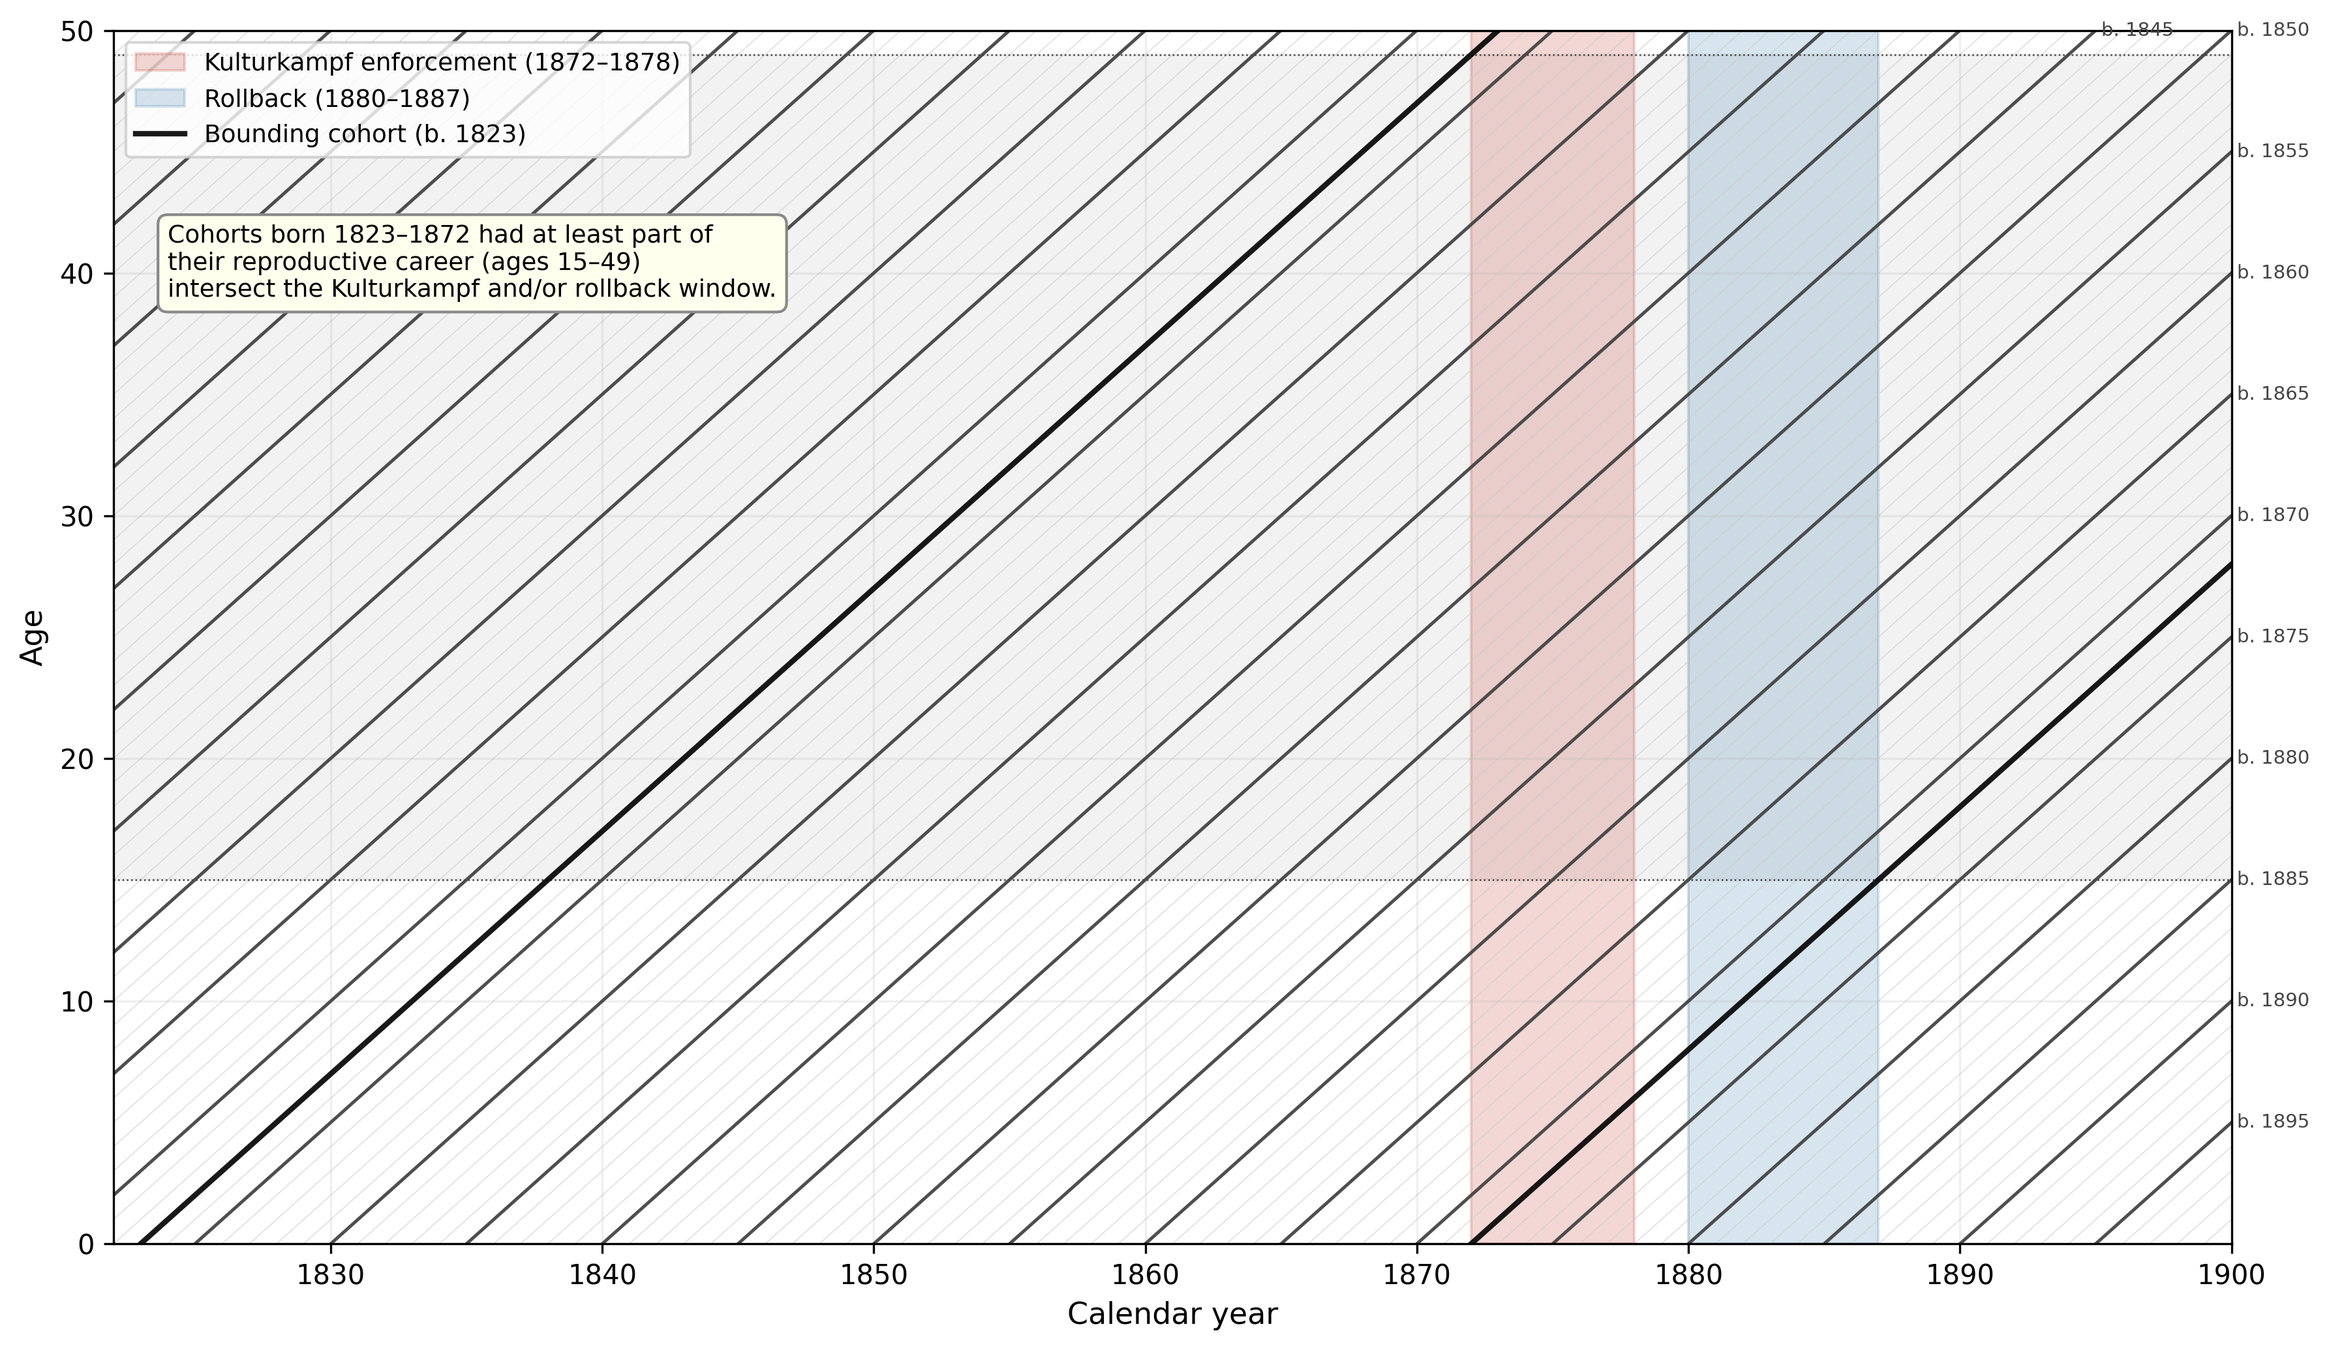
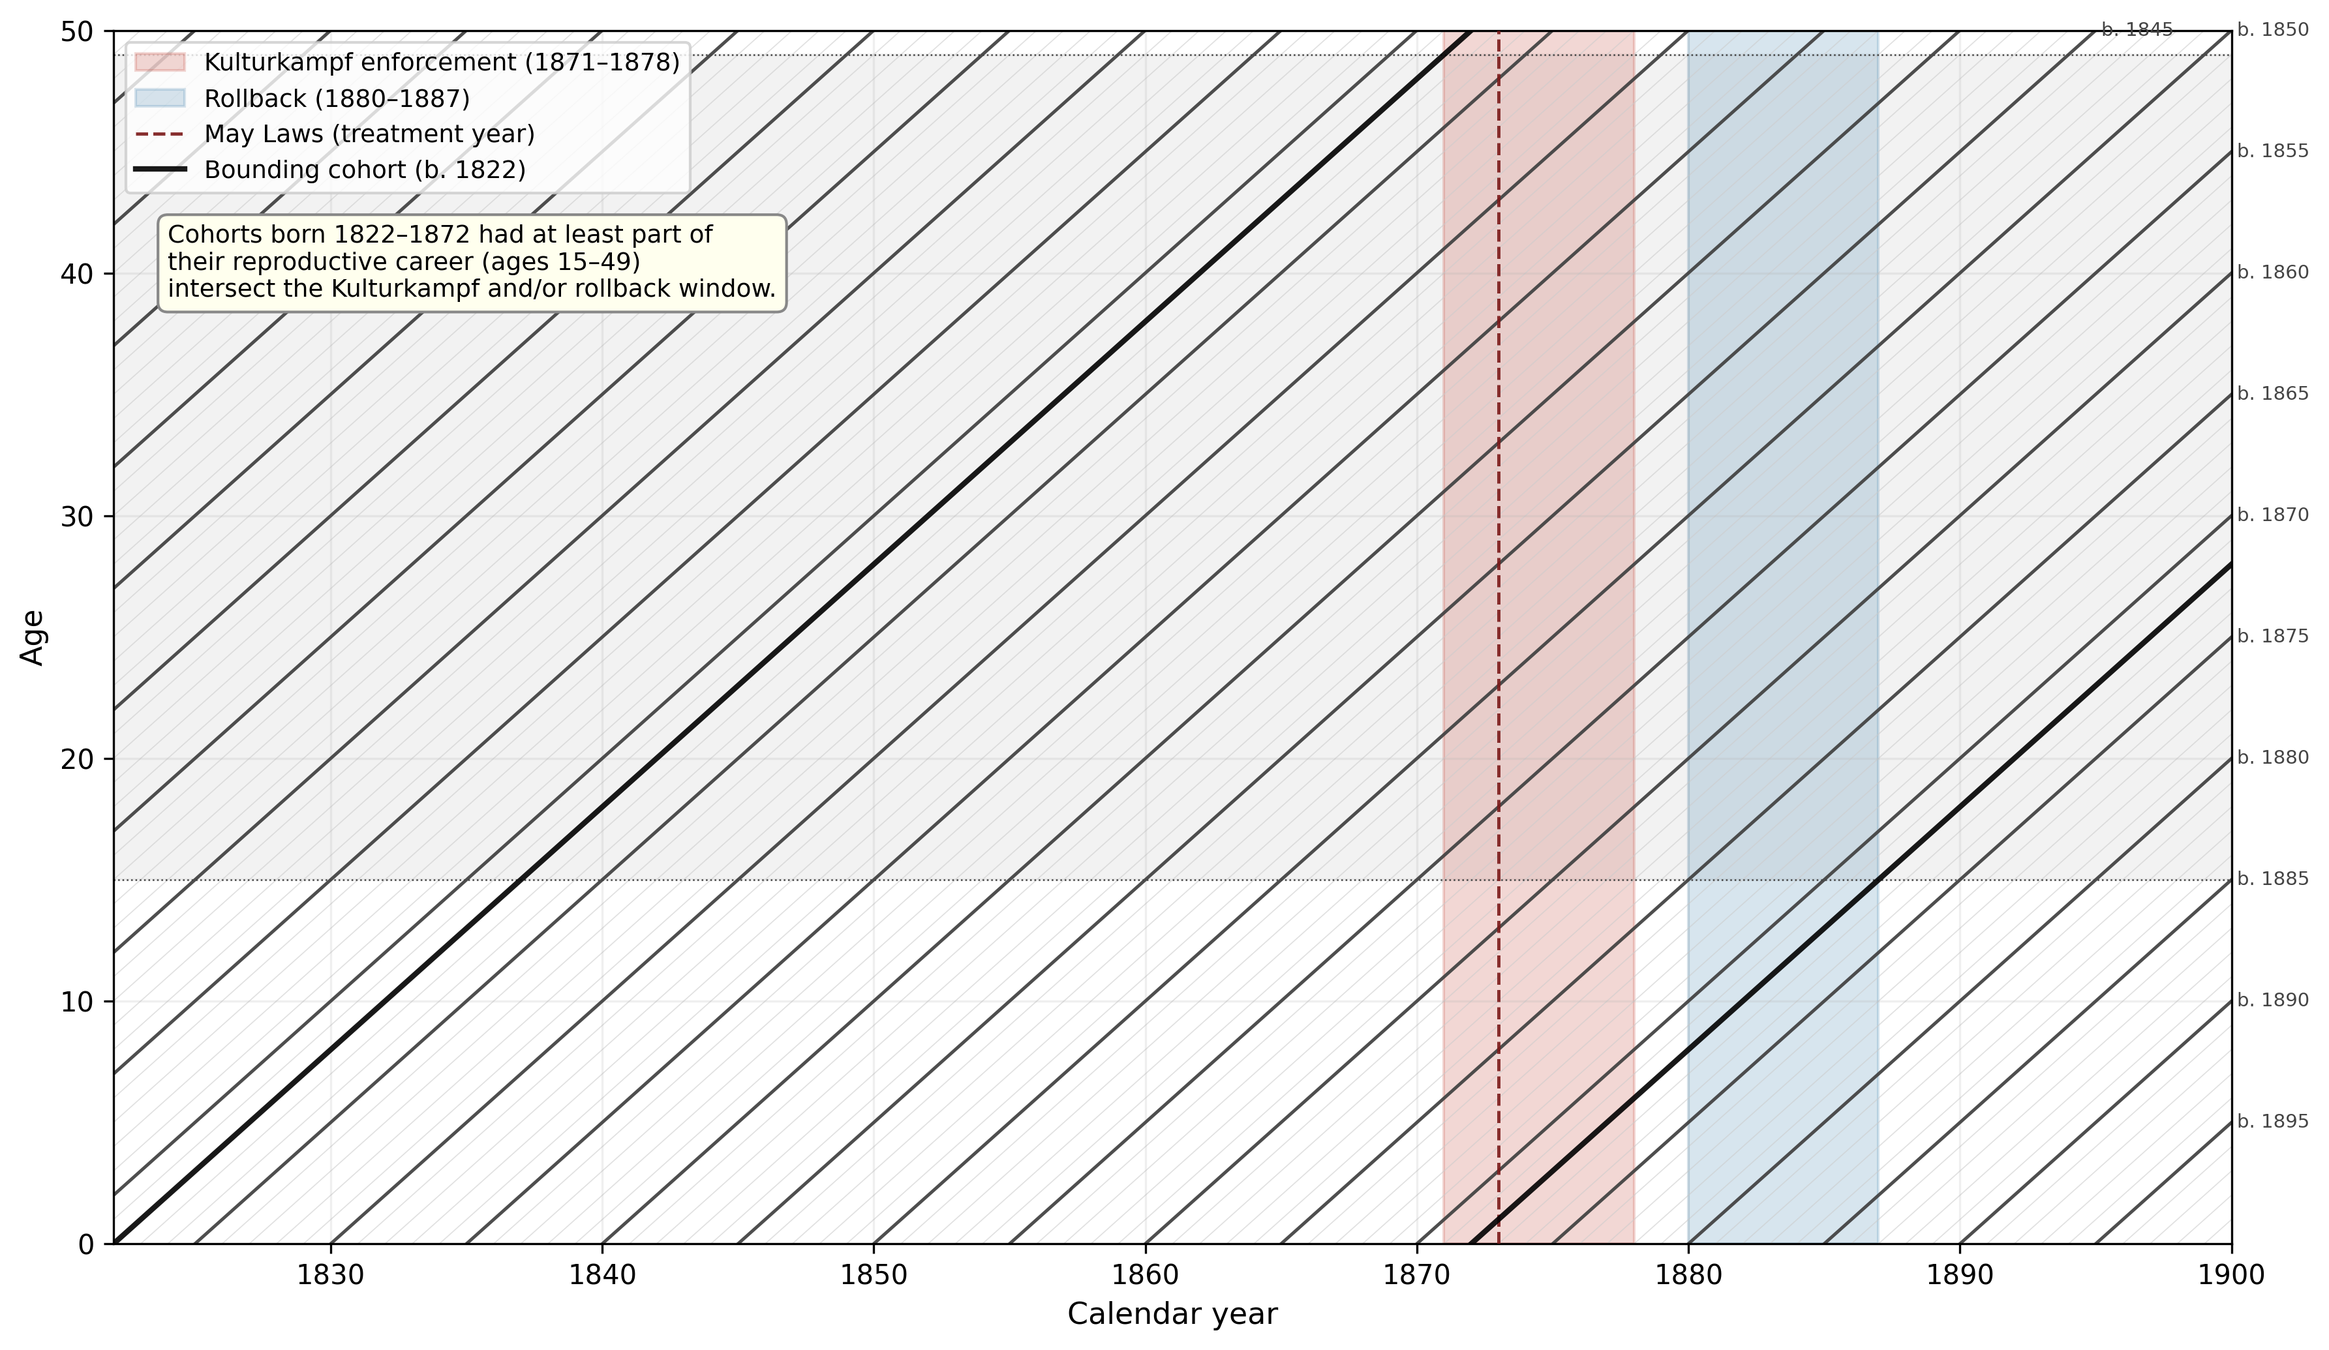
feat: unify Kulturkampf shading to 1871-78 with 1873 treatment-year line
Adopt a single visual convention across every figure with a Kulturkampf
band: the shaded period spans 1871-78 (the legal episode, from the
Pulpit Law to peak enforcement) and a dashed vertical line at 1873
marks the May Laws -- the DiD treatment year. This separates the
historical episode from the empirical cutoff so the two read together
rather than appearing inconsistent across panels.

- plots.py: add KULTURKAMPF_TREATMENT_YEAR constant and
  _add_treatment_year_line() helper; update defaults for 7 plot
  functions from (1872/1873, 1878) to (1871, 1878); add the
  treatment-year line everywhere a Kulturkampf band is shaded.
- channels.py, rollback.py, war_robustness.py: update hard-coded
  bands and labels to the same convention.
- Regenerate descriptive figures: fig_lexis (bounding cohort now
  b. 1822), fig_zentrum_timeseries (new historical-background plot),
  fig_zentrum_mobilization, fig2_fertility_trends,
  fig_population_migration, fig_imr_by_group.

Event-study figures (fig5_event_study_cbr_ig, fig9_rollback_event_study,
etc.) need a pipeline rerun (dvc repro tables) to pick up the new
convention.

diff --git a/exam_project2/src/visualization/plots.py b/exam_project2/src/visualization/plots.py
@@ -22,10 +22,31 @@ COLORS = {
     "kulturkampf": "#E8DAEF",
 }
 
+# Kulturkampf timing convention used across all figures:
+#   - The Kulturkampf legal episode runs 1871 (Pulpit Law / Kanzelparagraph)
+#     to 1878 (peak enforcement); cleavage rollback then begins in 1880.
+#   - The DiD treatment date is the May Laws of 1873, the largest discrete
+#     escalation. We mark this as a dashed vertical line on every figure
+#     that shades the enforcement band so the reader can distinguish the
+#     historical episode (the shaded band) from the empirical treatment
+#     date (the dashed line) at a glance.
+KULTURKAMPF_TREATMENT_YEAR = 1873
+
+
+def _add_treatment_year_line(ax, year: int = KULTURKAMPF_TREATMENT_YEAR,
+                             label: str | None = "May Laws (treatment year)",
+                             color: str = "#7B1A1A", linestyle: str = "--",
+                             linewidth: float = 1.2, alpha: float = 0.9):
+    """Add a vertical dashed line at the DiD treatment year. Pass
+    ``label=None`` to omit from the legend (e.g., when only one panel
+    in a multi-panel figure should carry the legend entry)."""
+    ax.axvline(year, color=color, linestyle=linestyle, linewidth=linewidth,
+               alpha=alpha, label=label, zorder=3)
+
 
 def plot_population_and_migration(
     panel: pd.DataFrame,
-    enforcement_years: tuple[int, int] = (1872, 1878),
+    enforcement_years: tuple[int, int] = (1871, 1878),
     rollback_years: tuple[int, int] = (1880, 1887),
     savepath: str | None = None,
 ):
@@ -77,6 +98,7 @@ def plot_population_and_migration(
                   linewidth=2, marker="o", markersize=3, label=region)
     ax_l.axvspan(*enforcement_years, alpha=0.15, color=COLORS["kulturkampf"])
     ax_l.axvspan(*rollback_years, alpha=0.12, color=COLORS["protestant"])
+    _add_treatment_year_line(ax_l, label=None)
     ax_l.axhline(100, color="black", linewidth=0.6, linestyle=":")
     ax_l.set_xlabel("Year", fontsize=11)
     ax_l.set_ylabel("Population index (1862 = 100)", fontsize=11)
@@ -99,6 +121,7 @@ def plot_population_and_migration(
                  label=f"Kulturkampf ({enforcement_years[0]}--{enforcement_years[1]})")
     ax_r.axvspan(*rollback_years, alpha=0.12, color=COLORS["protestant"],
                  label=f"Rollback ({rollback_years[0]}--{rollback_years[1]})")
+    _add_treatment_year_line(ax_r)
     ax_r.axhline(0, color="black", linewidth=0.6, linestyle="-")
     ax_r.set_xlabel("Year", fontsize=11)
     ax_r.set_ylabel("Implied net migration rate (per 1{,}000 pop)", fontsize=11)
@@ -116,7 +139,7 @@ def plot_lexis_diagram(
     year_range: tuple[int, int] = (1822, 1900),
     age_range: tuple[int, int] = (0, 50),
     repro_age_range: tuple[int, int] = (15, 49),
-    enforcement_years: tuple[int, int] = (1872, 1878),
+    enforcement_years: tuple[int, int] = (1871, 1878),
     rollback_years: tuple[int, int] = (1880, 1887),
     cohort_step: int = 5,
     savepath: str | None = None,
@@ -146,6 +169,7 @@ def plot_lexis_diagram(
                label=f"Kulturkampf enforcement ({enforcement_years[0]}–{enforcement_years[1]})")
     ax.axvspan(*rollback_years, alpha=0.18, color=COLORS["protestant"],
                label=f"Rollback ({rollback_years[0]}–{rollback_years[1]})")
+    _add_treatment_year_line(ax)
 
     # Cohort diagonal lines: a person born in year c is at age (year - c).
     cohort_first = year_range[0] - age_range[1]
@@ -273,9 +297,9 @@ def plot_counterfactual_paths(
                 linestyle="--", alpha=0.85,
                 label=f"{st['label_obs']}, counterfactual")
 
-    ax.axvspan(1872, 1878, alpha=0.15, color=COLORS["kulturkampf"],
-               label="Kulturkampf (1872--1878)")
-    ax.axvline(1873, color="grey", linestyle=":", linewidth=0.8, alpha=0.6)
+    ax.axvspan(1871, 1878, alpha=0.15, color=COLORS["kulturkampf"],
+               label="Kulturkampf (1871--1878)")
+    _add_treatment_year_line(ax)
 
     ax.set_xlabel("Year", fontsize=11)
     ax.set_ylabel(ylabel, fontsize=11)
@@ -297,7 +321,7 @@ def plot_fertility_trends(
 ):
     """
     Plot average fertility over time for high- vs low-Catholic counties.
-    Shades the Kulturkampf period (1872-1878).
+    Shades the Kulturkampf period (1871-1878) with the 1873 May Laws marked.
     """
     fig, ax = plt.subplots(figsize=(10, 6))
     
@@ -309,13 +333,11 @@ def plot_fertility_trends(
         ax.plot(group.index, group.values, color=color, linewidth=2, label=label)
     
     # Shade Kulturkampf period
-    ax.axvspan(1872, 1878, alpha=0.15, color=COLORS["kulturkampf"], 
-               label="Kulturkampf (1872–1878)")
-    
-    # Reference line for May Laws
-    ax.axvline(1873, color="grey", linestyle="--", linewidth=0.8, alpha=0.6)
-    ax.text(1873.2, ax.get_ylim()[1] * 0.98, "May Laws\n1873", 
-            fontsize=8, color="grey", va="top")
+    ax.axvspan(1871, 1878, alpha=0.15, color=COLORS["kulturkampf"],
+               label="Kulturkampf (1871–1878)")
+
+    # Treatment-year line for May Laws
+    _add_treatment_year_line(ax)
     
     ax.set_xlabel("Year", fontsize=11)
     ax.set_ylabel(ylabel, fontsize=11)
@@ -333,7 +355,7 @@ def plot_event_study(
     ref_year: int = 1872,
     title: str = "Event study: Catholic share × Year",
     ylabel: str = "Coefficient on CathShare × Year",
-    enforcement_years: tuple[int, int] = (1873, 1878),
+    enforcement_years: tuple[int, int] = (1871, 1878),
     rollback_years: tuple[int, int] = (1880, 1887),
     savepath: str = None,
 ):
@@ -369,6 +391,7 @@ def plot_event_study(
         alpha=0.18, color="#7F8C8D",
         label=f"Rollback ({rollback_years[0]}-{rollback_years[1]})",
     )
+    _add_treatment_year_line(ax)
 
     # Zero line
     ax.axhline(0, color="black", linewidth=0.8, linestyle="-")
@@ -409,7 +432,7 @@ def plot_event_study_cbr_ig(
     pretrends_cbr: dict | None = None,
     pretrends_ig: dict | None = None,
     ref_year: int = 1872,
-    enforcement_years: tuple[int, int] = (1873, 1878),
+    enforcement_years: tuple[int, int] = (1871, 1878),
     rollback_years: tuple[int, int] = (1880, 1887),
     savepath: str | None = None,
 ):
@@ -467,8 +490,8 @@ def plot_event_study_cbr_ig(
     enf_color = "#9B59B6"   # light purple for enforcement
     roll_color = "#7F8C8D"  # neutral grey for rollback
 
-    for ax, coefs, pre, title, ylabel in panels:
-        # Enforcement shading (light purple, 1873-1878). Use axvspan from
+    for ax_idx, (ax, coefs, pre, title, ylabel) in enumerate(panels):
+        # Enforcement shading (light purple). Use axvspan from
         # enf_start - 0.5 to enf_end + 0.5 to align block edges with
         # year-tick centres.
         ax.axvspan(
@@ -482,6 +505,10 @@ def plot_event_study_cbr_ig(
             alpha=0.18, color=roll_color,
             label=f"Rollback ({rollback_years[0]}-{rollback_years[1]})",
         )
+        # Treatment-year line; label only on the left panel to avoid
+        # duplicating the legend entry.
+        _add_treatment_year_line(ax, label=("May Laws (treatment year)"
+                                            if ax_idx == 0 else None))
 
         ax.axhline(0, color="black", linewidth=0.8, linestyle="-")
         ax.fill_between(
@@ -620,7 +647,7 @@ def plot_cbr_war_context(
 
 def plot_zentrum_event_study(
     coefs: pd.DataFrame,
-    enforcement_years: tuple[int, int] = (1873, 1878),
+    enforcement_years: tuple[int, int] = (1871, 1878),
     rollback_years: tuple[int, int] = (1880, 1887),
     title: str | None = None,
     ylabel: str | None = None,
@@ -665,6 +692,7 @@ def plot_zentrum_event_study(
         alpha=0.18, color="#7F8C8D",
         label=f"Rollback ({rollback_years[0]}-{rollback_years[1]})",
     )
+    _add_treatment_year_line(ax)
 
     # Zero line.
     ax.axhline(0, color="black", linewidth=0.8, linestyle="-")
@@ -731,7 +759,7 @@ def plot_zentrum_event_study(
 def plot_zentrum_mobilization(
     panel: pd.DataFrame,
     election_years: tuple[int, ...] = (1871, 1874, 1878, 1881, 1884, 1887, 1890),
-    enforcement_years: tuple[int, int] = (1873, 1878),
+    enforcement_years: tuple[int, int] = (1871, 1878),
     rollback_years: tuple[int, int] = (1880, 1887),
     savepath: str | None = None,
 ):
@@ -778,6 +806,7 @@ def plot_zentrum_mobilization(
         alpha=0.18, color="#7F8C8D",
         label=f"Rollback ({rollback_years[0]}-{rollback_years[1]})",
     )
+    _add_treatment_year_line(ax)
 
     # Reference line at the 1871 pre-Kulturkampf level for each group.
     for grp, color in [("High Catholic", COLORS["catholic"]),
@@ -897,7 +926,7 @@ def plot_imr_break(
 def plot_imr_by_group(
     panel: pd.DataFrame,
     break_year: int = 1875,
-    enforcement_years: tuple[int, int] = (1872, 1878),
+    enforcement_years: tuple[int, int] = (1871, 1878),
     rollback_years: tuple[int, int] = (1880, 1887),
     savepath: str | None = None,
 ):

diff --git a/exam_project2/src/analysis/channels.py b/exam_project2/src/analysis/channels.py
@@ -60,8 +60,10 @@ def illegitimacy_analysis(df: pd.DataFrame):
         trend = df[mask].groupby("Year")["illegitimacy_ratio"].mean()
         ax.plot(trend.index, trend.values, color=color, linewidth=2, label=label)
 
-    ax.axvspan(1872, 1878, alpha=0.15, color="#E8DAEF")
-    ax.axvline(1873, color="grey", linestyle="--", linewidth=0.8, alpha=0.6)
+    ax.axvspan(1871, 1878, alpha=0.15, color="#E8DAEF",
+               label="Kulturkampf (1871-78)")
+    ax.axvline(1873, color="#7B1A1A", linestyle="--", linewidth=1.2, alpha=0.9,
+               label="May Laws (treatment year)")
     ax.set_xlabel("Year", fontsize=11)
     ax.set_ylabel("Illegitimate births (% of total)", fontsize=11)
     ax.legend(fontsize=9)
@@ -131,7 +133,11 @@ def infant_mortality_analysis(df: pd.DataFrame):
         trend = df[mask].groupby("Year")["infant_mortality_rate"].mean()
         ax.plot(trend.index, trend.values, color=color, linewidth=2, marker="o", markersize=4, label=label)
 
-    ax.axvspan(1875, 1878, alpha=0.15, color="#C0392B", label="Enforcement")
+    # Kulturkampf enforcement 1871-78; IMR data only well-defined from 1875,
+    # so the visible portion of the band starts at 1875 and the May Laws
+    # vertical line (1873) is suppressed (off-screen).
+    ax.axvspan(1875, 1878, alpha=0.15, color="#C0392B",
+               label="Enforcement (1871-78, visible from 1875)")
     ax.axvspan(1880, 1887, alpha=0.15, color="#2471A3", label="Rollback")
     ax.set_xlabel("Year", fontsize=11)
     ax.set_ylabel("Infant mortality rate (per 1,000 legitimate live births)", fontsize=11)
@@ -472,7 +478,10 @@ def schooling_channel(df: pd.DataFrame):
             means.append(cs.loc[cs["cath_quartile"] == q, col].mean())
         ax.plot([1849, 1871, 1886], means, marker="o", linewidth=2,
                 color=color, label=f"Catholic share {q}")
-    ax.axvspan(1872, 1878, alpha=0.15, color="#E8DAEF", label="Kulturkampf")
+    ax.axvspan(1871, 1878, alpha=0.15, color="#E8DAEF",
+               label="Kulturkampf (1871-78)")
+    ax.axvline(1873, color="#7B1A1A", linestyle="--", linewidth=1.2, alpha=0.9,
+               label="May Laws (treatment year)")
     ax.set_xlabel("Year", fontsize=11)
     ax.set_ylabel("Schooling rate (varies by period)", fontsize=11)
     ax.legend(fontsize=9, loc="best")

diff --git a/exam_project2/src/analysis/war_robustness.py b/exam_project2/src/analysis/war_robustness.py
@@ -52,7 +52,10 @@ def franco_prussian_war_analysis(df: pd.DataFrame):
         trend = df[(mask) & (df["Year"].between(1865, 1878))].groupby("Year")["cbr"].mean()
         ax.plot(trend.index, trend.values, color=color, linewidth=2, marker="o", markersize=5, label=label)
     ax.axvspan(1870, 1871, alpha=0.2, color="grey", label="Franco-Prussian War")
-    ax.axvspan(1872, 1878, alpha=0.15, color="#E8DAEF", label="Kulturkampf")
+    ax.axvspan(1871, 1878, alpha=0.15, color="#E8DAEF",
+               label="Kulturkampf (1871-78)")
+    ax.axvline(1873, color="#7B1A1A", linestyle="--", linewidth=1.2, alpha=0.9,
+               label="May Laws (treatment year)")
     ax.set_xlabel("Year", fontsize=11)
     ax.set_ylabel("Crude birth rate (per 1,000)", fontsize=11)
     ax.legend(fontsize=9)
@@ -180,8 +183,12 @@ def robustness_exclude_war(
     fig, ax = plt.subplots(figsize=(12, 6))
     for wy in war_years:
         ax.axvspan(wy - 0.4, wy + 0.4, alpha=0.1, color="grey")
-    ax.axvspan(1872, 1878, alpha=0.15, color="#C0392B", label="Kulturkampf enforcement")
-    ax.axvspan(1880, 1887, alpha=0.15, color="#2471A3", label="Kulturkampf rollback")
+    ax.axvspan(1871, 1878, alpha=0.15, color="#C0392B",
+               label="Kulturkampf enforcement (1871-78)")
+    ax.axvspan(1880, 1887, alpha=0.15, color="#2471A3",
+               label="Kulturkampf rollback (1880-87)")
+    ax.axvline(1873, color="#7B1A1A", linestyle="--", linewidth=1.2, alpha=0.9,
+               label="May Laws (treatment year)")
     ax.axhline(0, color="black", linewidth=0.8)
     ax.fill_between(coefs["Year"], coefs["ci_lo"], coefs["ci_hi"], alpha=0.25, color="#333333")
     ax.plot(coefs["Year"], coefs["beta"], color="#333333", linewidth=2, marker="o", markersize=5)

diff --git a/exam_project2/src/analysis/rollback.py b/exam_project2/src/analysis/rollback.py
@@ -71,8 +71,12 @@ def rollback_event_study(
 
     # Plot
     fig, ax = plt.subplots(figsize=(12, 6))
-    ax.axvspan(1872, 1878, alpha=0.15, color="#C0392B", label="Kulturkampf enforcement")
-    ax.axvspan(1880, 1887, alpha=0.15, color="#2471A3", label="Kulturkampf rollback")
+    ax.axvspan(1871, 1878, alpha=0.15, color="#C0392B",
+               label="Kulturkampf enforcement (1871-78)")
+    ax.axvspan(1880, 1887, alpha=0.15, color="#2471A3",
+               label="Kulturkampf rollback (1880-87)")
+    ax.axvline(1873, color="#7B1A1A", linestyle="--", linewidth=1.2, alpha=0.9,
+               label="May Laws (treatment year)")
     ax.axhline(0, color="black", linewidth=0.8)
     ax.fill_between(coefs["Year"], coefs["ci_lo"], coefs["ci_hi"], alpha=0.25, color="#555555")
     ax.plot(coefs["Year"], coefs["beta"], color="#333333", linewidth=2, marker="o", markersize=4)
